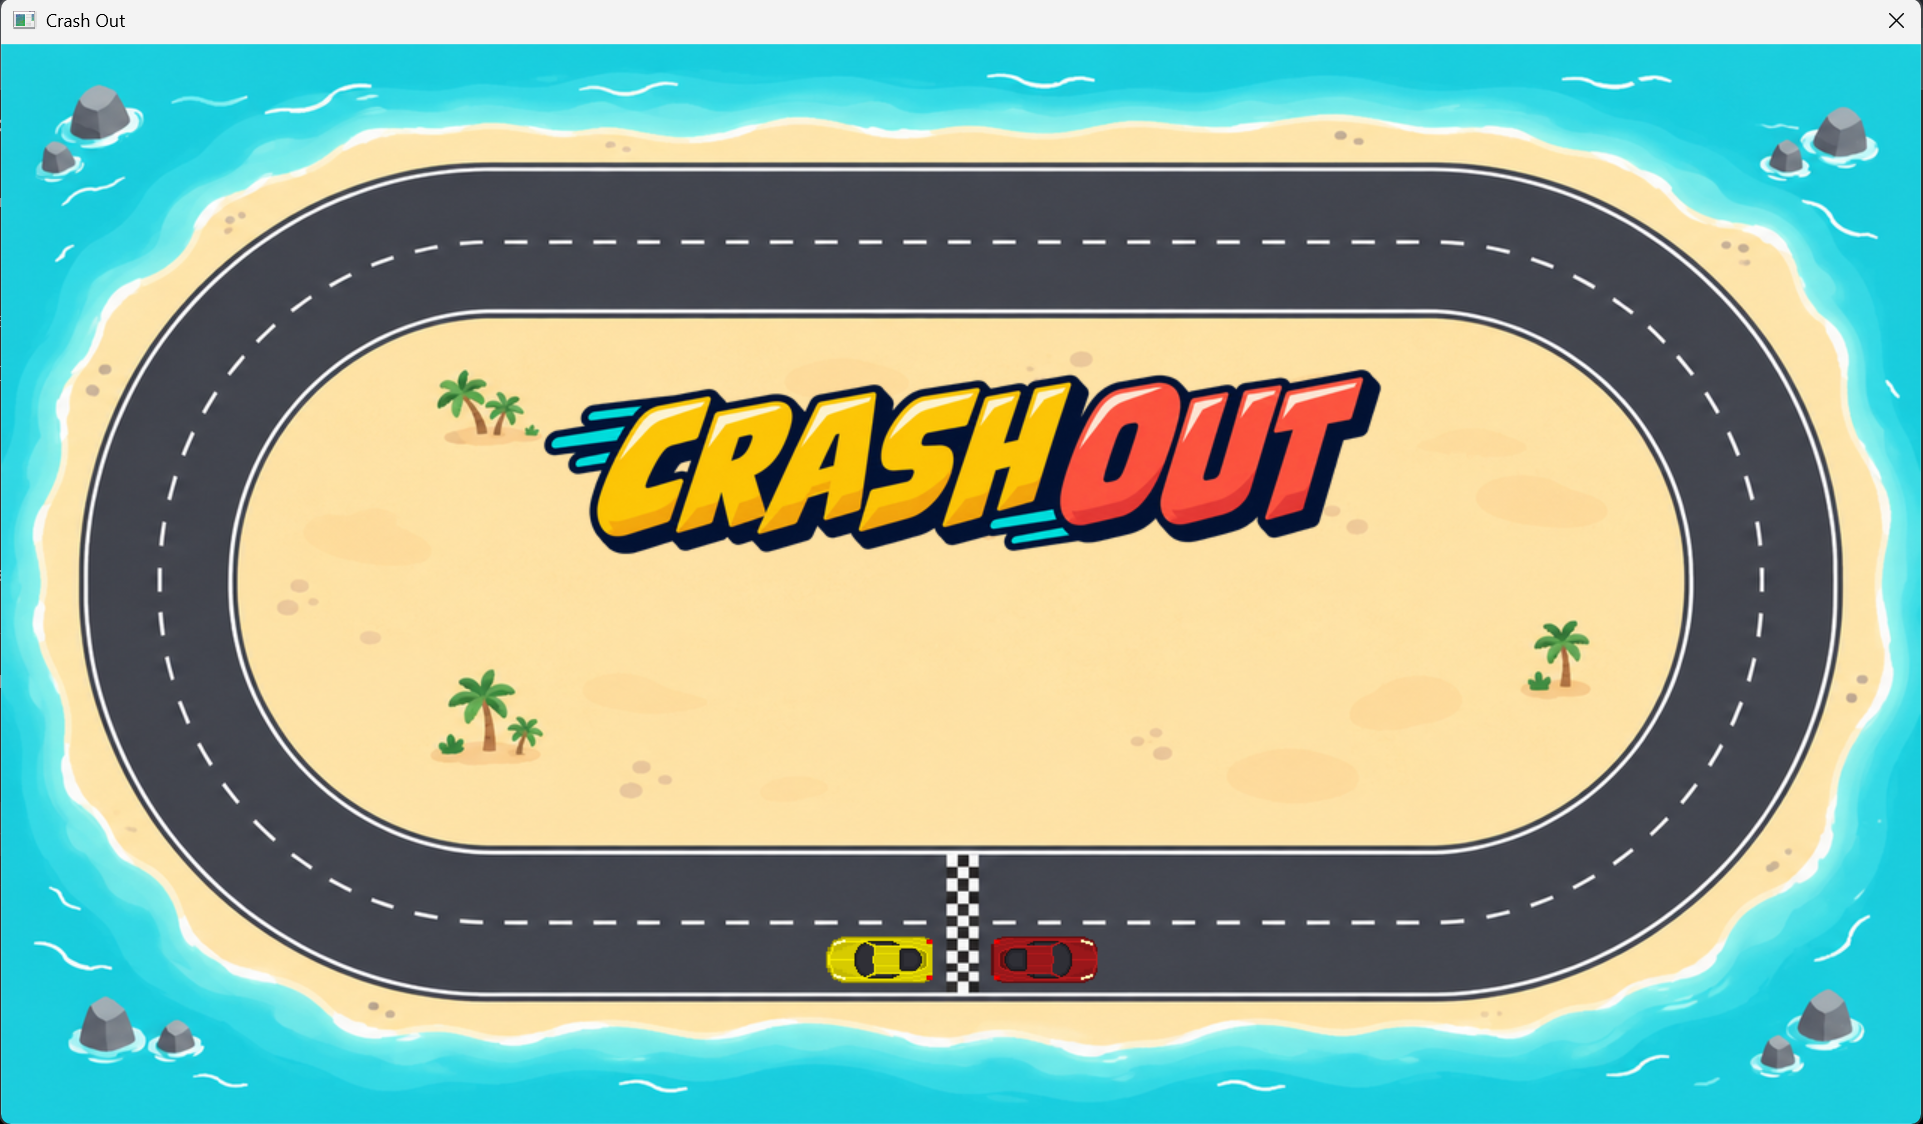
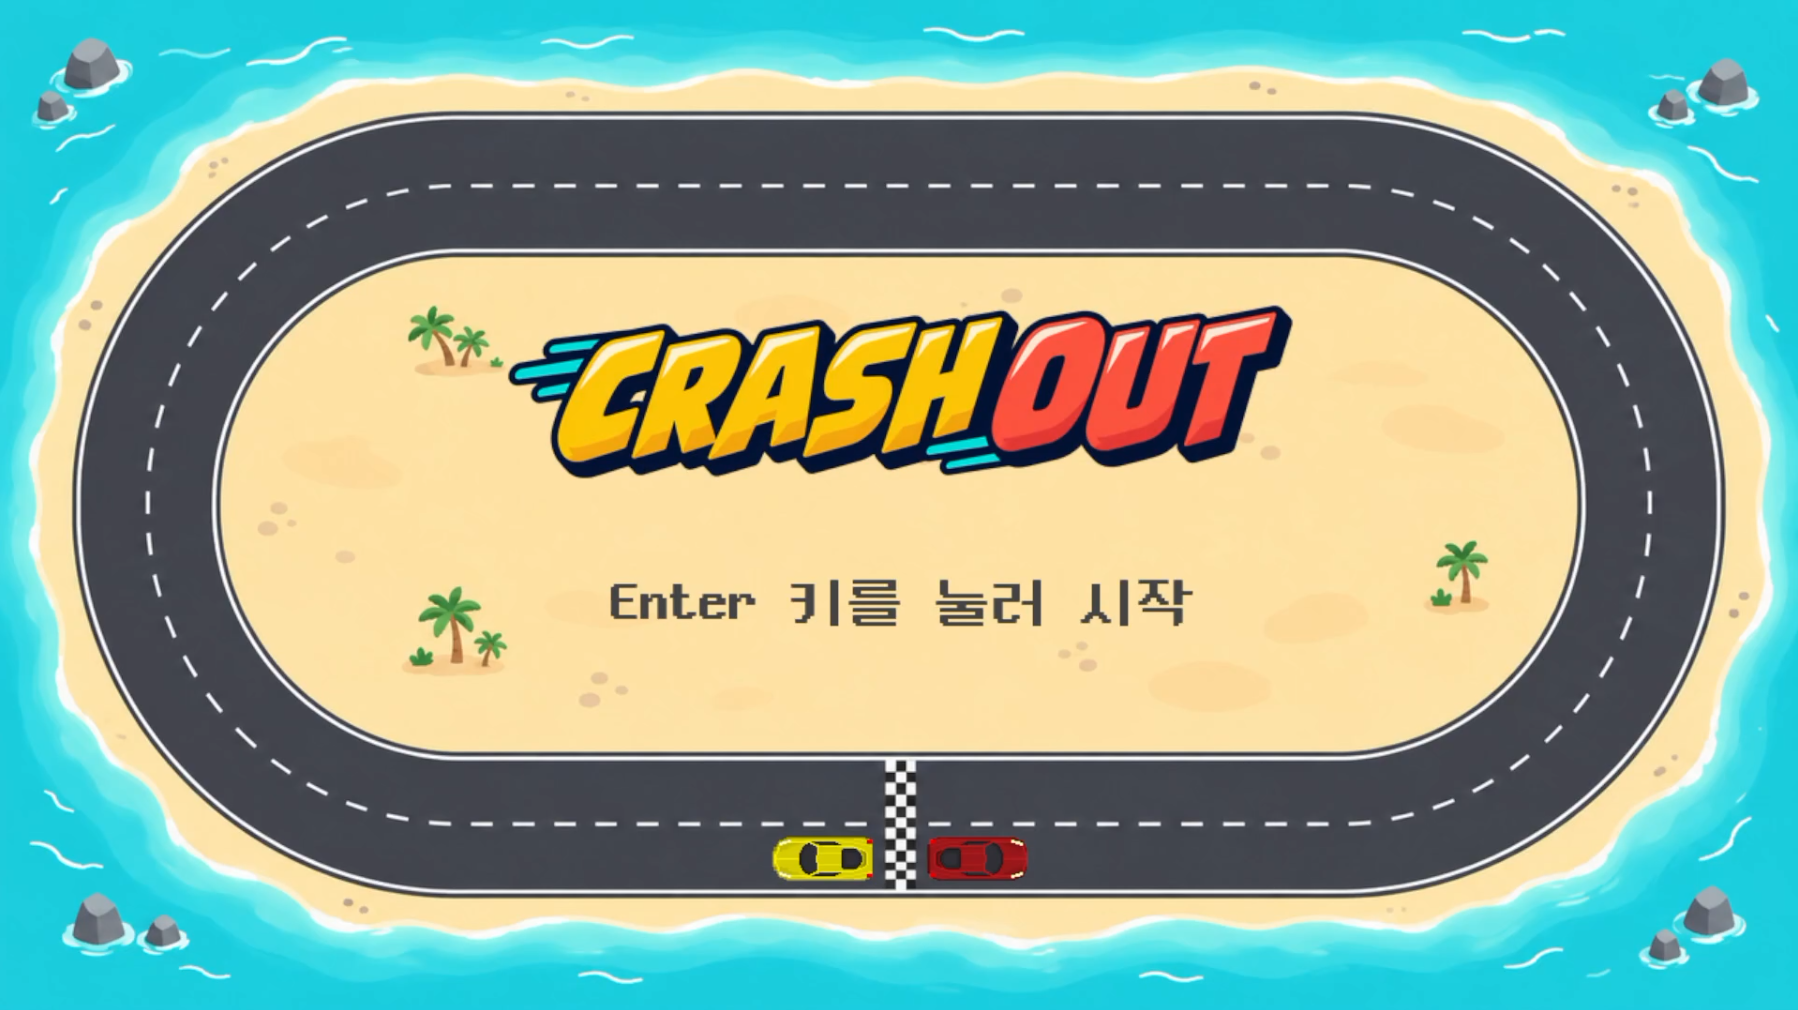
기획서 시작 화면 수정

diff --git a/doc/게임기획문서.md b/doc/게임기획문서.md
@@ -37,7 +37,7 @@ Crash Out은 플레이어 자동차와 상대 자동차가 2차선 순환 트랙
 
 ## 4. 게임 시작 조건
 
-- 프로그램을 실행하면 게임 제목과 시작·종료 안내를 표시한다.
+- 프로그램을 실행하면 게임 제목과 시작 안내를 표시한다.
 - Enter 키를 누르면 게임 데이터를 초기화하고 플레이 화면으로 전환한다.
 - 점수와 완주 바퀴 수는 0으로 초기화한다.
 - 두 자동차의 속도를 각각 기본 속도로 되돌리고, 바퀴당 속도 증가량을 초기화한다.
@@ -159,7 +159,7 @@ Crash Out은 플레이어 자동차와 상대 자동차가 2차선 순환 트랙
 
 - 트랙과 두 자동차를 배경으로 표시한다.
 - 중앙 위쪽에 게임 제목을 표시한다.
-- 아래쪽에 Enter를 통한 시작과 Esc를 통한 종료 안내를 표시한다.
+- 아래쪽에 Enter를 통한 시작 안내를 표시한다.
 
 
 ![Crash Out 시작 화면](image/start.png)
